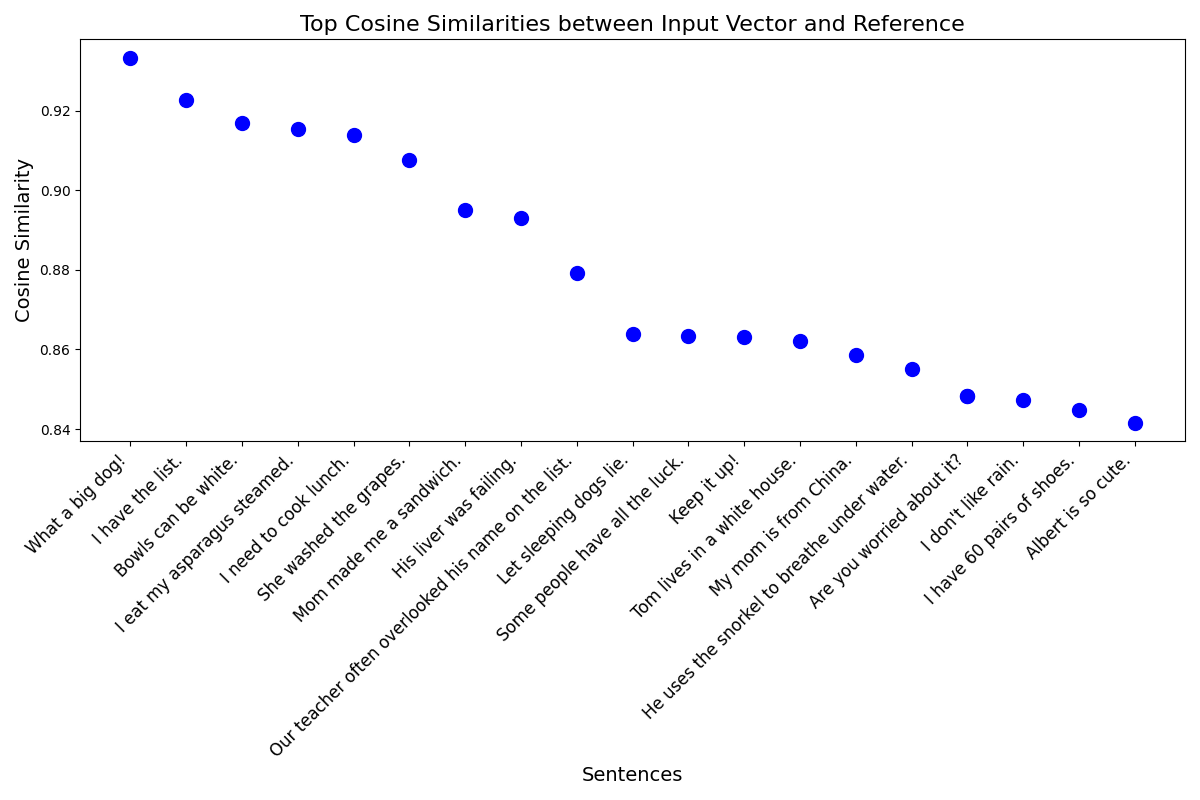
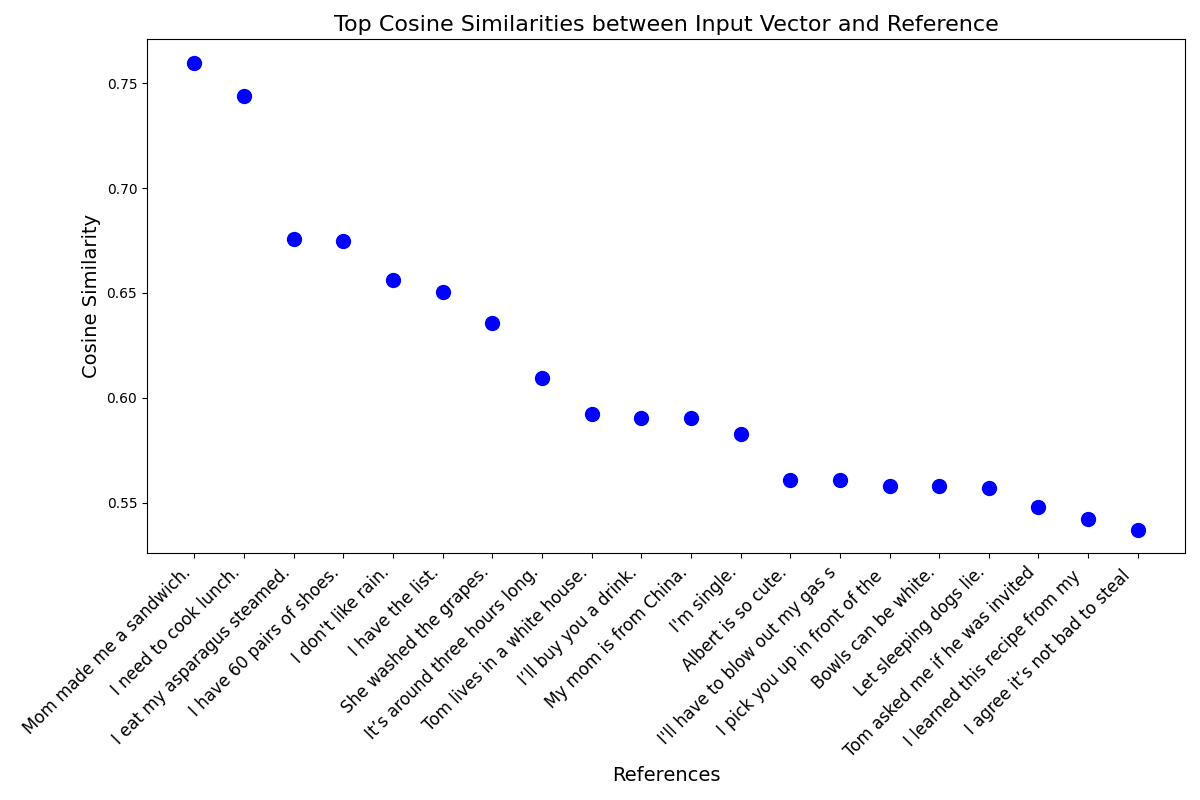
Chart improvements

diff --git a/score.py b/score.py
@@ -1,8 +1,6 @@
 import os
-import torch
 import numpy as np
 import matplotlib.pyplot as plt
-import seaborn as sns
 import pandas as pd
 import argparse
 
@@ -62,12 +60,13 @@ def plot_results(df, limit, file_path):
 
     # Create a scatter plot for the top 5 similarities
     plt.figure(figsize=(12, 8))  # Increase the figure size for more room
-    plt.scatter(top_k_df['Text'], top_k_df['Similarity'], color='blue', s=100)
+    plt.scatter(top_k_df['Text'].str[:30],
+                top_k_df['Similarity'], color='blue', s=100)
 
     # Add titles and labels
     plt.title(
         'Top Cosine Similarities between Input Vector and Reference', fontsize=16)
-    plt.xlabel('Sentences', fontsize=14)
+    plt.xlabel('References', fontsize=14)
     plt.ylabel('Cosine Similarity', fontsize=14)
 
     # Rotate x labels and add padding
@@ -102,7 +101,7 @@ if __name__ == "__main__":
     parser.add_argument("--text", "-t", type=str,
                         required=True, help="Input text to compare")
     parser.add_argument("--limit", "-l", type=int, default=1,
-                        help="Number of similar sentences to display")
+                        help="Number of similarities to display")
     parser.add_argument("--plot_file", "-f", type=str,
                         help="File path to save the plot")
     args = parser.parse_args()
